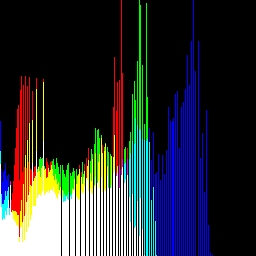
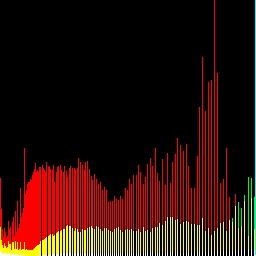
Update dsp: create lab1

diff --git a/dsp/lab2/main.go b/dsp/lab2/main.go
@@ -1,0 +1,210 @@
+package main
+
+import (
+	"fmt"
+	"github.com/Konstantsiy/labs-4th-sem/dsp/lab1/util"
+	"github.com/anthonynsimon/bild/imgio"
+	"image"
+	"image/draw"
+	"log"
+	"os"
+	"strconv"
+)
+
+const (
+	ColorBlack = 0x00
+	ColorWhite = 0xFF
+	ColorYellow = 0xE0
+)
+
+var (
+	colorBlack = [3]uint8{0, 0, 0}
+	colorWhite = [3]uint8{255, 255, 255}
+	colorsRGB = [7][3]uint8{
+		{255, 0, 0},
+		{255, 69, 0},
+		{0, 255, 0},
+		{0, 191, 255},
+		{0, 0, 205},
+		{139, 0, 139},
+		{255, 105, 180},
+	}
+)
+
+func prepareVars() (string, uint8, error) {
+	args := os.Args
+
+	if len(args) < 3 {
+		return "", 0, fmt.Errorf("need minimum 3 arguments")
+	}
+
+	filename := args[1]
+
+	level, err := strconv.ParseUint(args[2], 10, 8)
+	if err != nil {
+		return "", 0, err
+	}
+
+	return filename, uint8(level), nil
+}
+
+func AsRGBA(src image.Image) *image.RGBA {
+	bounds := src.Bounds()
+	res := image.NewRGBA(bounds)
+	draw.Draw(res, bounds, src, bounds.Min, draw.Src)
+	return res
+}
+
+func fillRGBPixel(pix []uint8, pos int, colorRGB [3]uint8) {
+	for i := 0; i < 3; i++ {
+		 pix[pos+i] = colorRGB[i]
+	}
+}
+
+func BinarizeImage(img image.Image, level uint8) *image.Gray {
+	//result := image.NewGray(img.Bounds())
+	//for y := img.Bounds().Min.Y; y < img.Bounds().Max.Y; y++ {
+	//	for x := img.Bounds().Min.X; x < img.Bounds().Max.X; x++ {
+	//		if uint8(util.Rank(img.At(x, y))) <= level {
+	//			result.Set(x, y, color.Black)
+	//		} else {
+	//			result.Set(x, y, color.White)
+	//		}
+	//	}
+	//}
+
+	//result := image.NewGray(img.Bounds())
+	//for y := img.Bounds().Min.Y; y < img.Bounds().Max.Y; y++ {
+	//	for x := img.Bounds().Min.X; x < img.Bounds().Max.X; x++ {
+	//		result.Set(x, y, img.At(x, y))
+	//	}
+	//}
+
+	src := AsRGBA(img)
+	bounds := img.Bounds()
+	result := image.NewGray(bounds)
+
+	for y := 0; y < bounds.Dy(); y++ {
+		for x := 0; x < bounds.Dx(); x++ {
+			srcPos := y * src.Stride + x * 4
+			resPos := y * result.Stride + x
+
+			c := src.Pix[srcPos : srcPos+4]
+
+			r := float64(c[0])*0.3 + float64(c[1])*0.6 + float64(c[2])*0.1
+
+			if uint8(r) >= level {
+				result.Pix[resPos] = ColorWhite
+			} else {
+				result.Pix[resPos] = ColorBlack
+			}
+		}
+	}
+
+	return result
+}
+
+func MarkupImage(img image.Gray) image.Gray {
+	var A, B, C uint8
+	curColorPos := 0
+	for y := 0; y < img.Bounds().Dy(); y++ {
+		for x := 0; x < img.Bounds().Dx(); x++ {
+			curPos := y*img.Stride+x
+			kn := x - 1
+			if kn <= 0 {
+				kn = 1
+				B = ColorBlack
+			} else {
+				B = img.Pix[kn * img.Stride + x]
+			}
+			km := y - 1
+			if km <= 0 {
+				km = 1
+				C = ColorBlack
+			} else {
+				C = img.Pix[km*img.Stride+x]
+			}
+			A = img.Pix[curPos]
+			if A == 0 {
+				continue
+			} else if B == ColorBlack && C == ColorBlack {
+				fillRGBPixel(img.Pix, curPos, colorsRGB[curColorPos])
+				//for i := 0; i < 3; i++ {
+				//	img.Pix[curPos+i] = colorsRGB[curColorPos][i]
+				//}
+				curColorPos++
+			} else if B != ColorBlack && C == ColorBlack {
+				img.Pix[curPos] = B
+			} else if B == ColorBlack && C != ColorBlack {
+				img.Pix[curPos] = C
+			} else if B != ColorBlack && C != ColorBlack {
+				if B == C {
+					img.Pix[curPos] = B
+				} else {
+					img.Pix[curPos] = B
+
+				}
+			}
+		}
+	}
+
+	return img
+}
+
+func main() {
+	filename, level, err := prepareVars()
+	if err != nil {
+		log.Fatal(err)
+	}
+
+	curDir, _ := os.Getwd()
+	path := curDir+"/dsp/lab2/images/"
+	filename += ".jpg"
+
+	img, err := imgio.Open(path+filename)
+	if err != nil {
+		log.Fatal(err)
+	}
+
+	binImg := BinarizeImage(img, level)
+	err = util.SaveFile(binImg, path, filename, "bin")
+	if err != nil {
+		log.Fatal(err)
+	}
+
+	//markImg := MarkupImage(*binImg)
+	//err = util.SaveFile(&markImg, path, filename, "markup")
+	//if err != nil {
+	//	log.Fatal(err)
+	//}
+
+
+	//err = hist.DrawHistogram(img, path, filename, "source")
+	//if err != nil {
+	//	log.Fatal(err)
+	//}
+	//
+	//imgGamma := gamma.AddGamma(img, c, y)
+	//err = utils.SaveFile(imgGamma, path, filename, "gamma")
+	//if err != nil {
+	//	log.Fatal(err)
+	//}
+	//
+	//err = hist.DrawHistogram(imgGamma, path, filename, "gamma")
+	//if err != nil {
+	//	log.Fatal(err)
+	//}
+	//
+	//imgSobel := filter.ApplySobel(img)
+	//err = utils.SaveFile(imgSobel, path, filename, "sobel")
+	//if err != nil {
+	//	log.Fatal(err)
+	//}
+	//
+	//err = hist.DrawHistogram(imgSobel, path, filename, "sobel")
+	//if err != nil {
+	//	log.Fatal(err)
+	//}
+}
+
+

diff --git a/dsp/lab1/filter/sobel.go b/dsp/lab1/filter/sobel.go
@@ -9,18 +9,18 @@ import (
 var (
 	kernelX = [3][3]int8{
 		{1, 0, -1},
-		{2, 0, -2},
+		{1, 0, -1},
 		{1, 0, -1},
 	}
 
 	kernelY = [3][3]int8{
-		{-1, -2, -1},
+		{-1, -1, -1},
 		{0, 0, 0},
-		{1, 2, 1},
+		{1, 1, 1},
 	}
 )
 
-func toGrayscale(img image.Image) image.Image {
+func ToGrayscale(img image.Image) image.Image {
 	max := img.Bounds().Max
 	min := img.Bounds().Min
 
@@ -43,7 +43,7 @@ func getGrayPixel(c color.Color) uint8 {
 }
 
 func ApplySobel(img image.Image) image.Image {
-	img = toGrayscale(img)
+	img = ToGrayscale(img)
 	bounds := img.Bounds()
 
 	var pixel color.Color
@@ -51,14 +51,40 @@ func ApplySobel(img image.Image) image.Image {
 
 	for x := 1; x < bounds.Max.X - 1; x++ {
 		for y := 1; y < bounds.Max.Y - 1; y++ {
-			fX, fY := applyKernels(img, x, y)
-			v := uint32(math.Ceil(math.Sqrt(float64((fX * fX) + (fY * fY)))))
+
+			//-----------------------------
+			var fX, fY int
+			curX, curY := x - 1, y - 1
+			for i := 0; i < 3; i++ {
+				for j := 0; j < 3; j++ {
+					pixel := getGrayPixel(img.At(curX, curY))
+					fX += int(kernelX[i][j]) * int(pixel)
+					fY += int(kernelY[i][j]) * int(pixel)
+					if x > 1 {
+						curX = curX + j - 1
+					}
+				}
+				curY++
+			}
+			//-----------------------------
+
+			//fX, fY := applyKernels(img, x, y)
+
+			v := uint32(math.Ceil(float64(getMax(fX, fY))))
+			//v := uint32(math.Ceil(math.Sqrt(float64((fX * fX) + (fY * fY)))))
 			pixel = color.Gray{Y: uint8(v)}
 			filtered.SetGray(x, y, pixel.(color.Gray))
 		}
 	}
 
 	return filtered
+}
+
+func getMax(f1, f2 int) int {
+	if f1 > f2 {
+		return f1
+	}
+	return f2
 }
 
 func applyKernels(img image.Image, x, y int) (uint32, uint32) {
@@ -85,7 +111,7 @@ func applyKernels(img image.Image, x, y int) (uint32, uint32) {
 
 
 func ApplySobel1(img image.Image) image.Image {
-	greyImg := toGrayscale(img)
+	greyImg := ToGrayscale(img)
 	bounds := greyImg.Bounds()
 	var filtered = image.NewGray(image.Rect(bounds.Max.X-2, bounds.Max.Y-2, bounds.Min.X, bounds.Min.Y))
 

diff --git a/dsp/lab1/main.go b/dsp/lab1/main.go
@@ -5,8 +5,10 @@ import (
 	"github.com/Konstantsiy/labs-4th-sem/dsp/lab1/filter"
 	"github.com/Konstantsiy/labs-4th-sem/dsp/lab1/gamma"
 	"github.com/Konstantsiy/labs-4th-sem/dsp/lab1/hist"
-	"github.com/Konstantsiy/labs-4th-sem/dsp/lab1/utils"
+	"github.com/Konstantsiy/labs-4th-sem/dsp/lab1/util"
 	"github.com/anthonynsimon/bild/imgio"
+	"image"
+	"image/draw"
 	"log"
 	"os"
 	"strconv"
@@ -34,6 +36,15 @@ func prepareVars() (string, float64, float64, error) {
 	return filename, c, y, nil
 }
 
+func AsRGBA(src image.Image) *image.RGBA {
+	bounds := src.Bounds()
+	res := image.NewRGBA(bounds)
+	draw.Draw(res, bounds, src, bounds.Min, draw.Src)
+	return res
+}
+
+
+
 func main() {
 	filename, c, y, err := prepareVars()
 	if err != nil {
@@ -43,7 +54,6 @@ func main() {
 	curDir, _ := os.Getwd()
 	path := curDir+"/dsp/lab1/images/"
 	filename += ".jpg"
-
 
 	img, err := imgio.Open(path+filename)
 	if err != nil {
@@ -56,7 +66,7 @@ func main() {
 	}
 
 	imgGamma := gamma.AddGamma(img, c, y)
-	err = utils.SaveFile(imgGamma, path, filename, "gamma")
+	err = util.SaveFile(imgGamma, path, filename, "gamma")
 	if err != nil {
 		log.Fatal(err)
 	}
@@ -67,7 +77,7 @@ func main() {
 	}
 
 	imgSobel := filter.ApplySobel(img)
-	err = utils.SaveFile(imgSobel, path, filename, "sobel")
+	err = util.SaveFile(imgSobel, path, filename, "sobel")
 	if err != nil {
 		log.Fatal(err)
 	}

diff --git a/dsp/lab1/util/util.go b/dsp/lab1/util/util.go
@@ -1,7 +1,8 @@
-package utils
+package util
 
 import (
 	"image"
+	"image/color"
 	"image/jpeg"
 	"os"
 )
@@ -17,4 +18,9 @@ func SaveFile(img image.Image, path, filename, postfix string) error {
 		return err
 	}
 	return nil
+}
+
+func Rank(c color.Color) float64 {
+	r, g, b, _ := c.RGBA()
+	return float64(r)*0.3 + float64(g)*0.6 + float64(b)*0.1
 }
